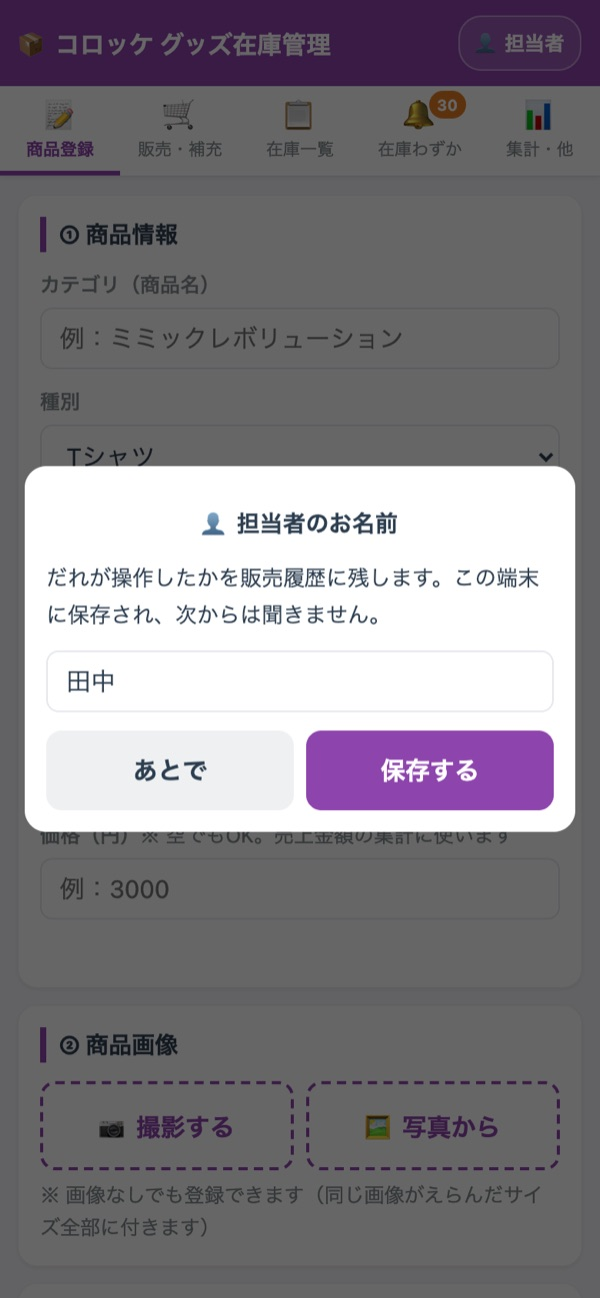
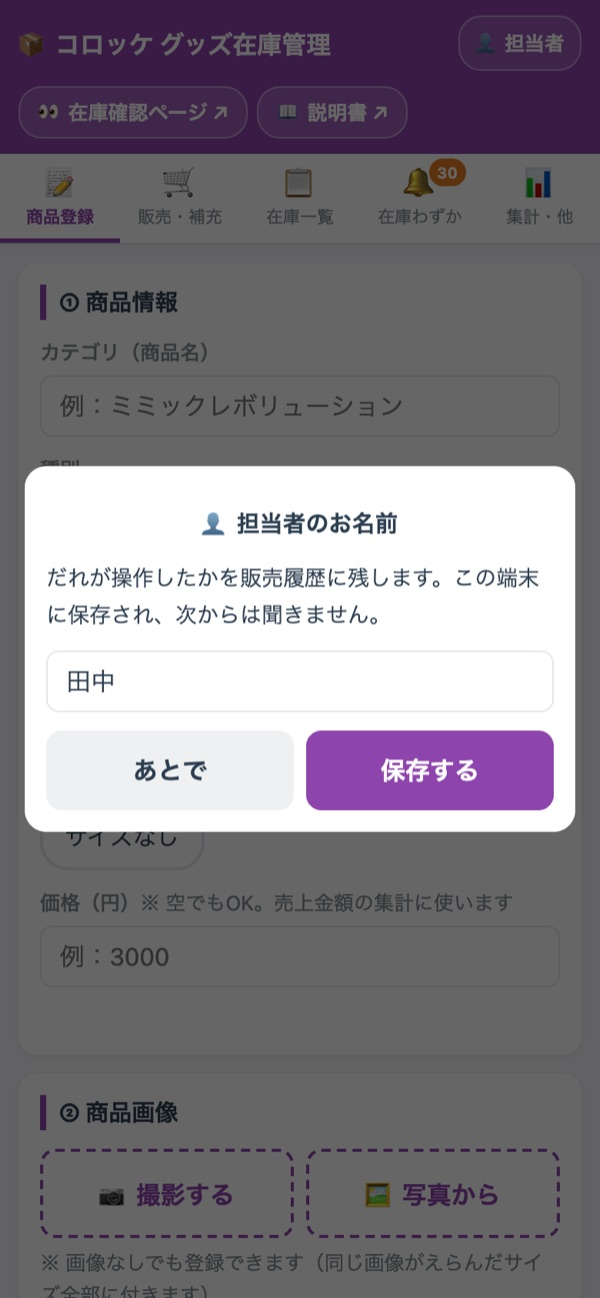
管理画面に在庫確認ページ・説明書へのリンクを追加（説明書の写真も更新）

diff --git a/guide/index.html b/guide/index.html
@@ -669,6 +669,7 @@
         <div><span class="ico">🔔</span><b>在庫わずか</b>残り5枚以下の商品</div>
         <div><span class="ico">📊</span><b>集計・他</b>月ごと・公演ごとの売上</div>
       </div>
+      <p>タブの上にある <b>👀 在庫確認ページ</b> を押すと、お客さまが見る在庫のページが開きます。<b>📖 説明書</b> を押すと、この説明書が開きます。</p>
       <div class="note">タブを押すと、画面の上の色も変わります（販売は赤、在庫一覧はオレンジ、など）。今どの画面にいるかの目印にしてください。</div>
     </div>
   </section>
@@ -692,13 +693,13 @@
     <figure class="phone">
       <div class="screen">
         <img src="img/a06-sale.jpg" width="600" height="1298" alt="1商品ずつ販売を記録する画面">
-        <span class="pin" style="left:20.4%;top:30.1%">1</span>
-        <span class="pin" style="left:69.6%;top:43.5%">2</span>
-        <span class="pin" style="left:87.6%;top:48.5%">3</span>
-        <span class="pin" style="left:50%;top:62.5%">4</span>
-        <span class="pin" style="left:88%;top:71.9%">5</span>
-        <span class="pin" style="left:88%;top:81%">6</span>
-        <span class="pin" style="left:78%;top:87.9%">7</span>
+        <span class="pin" style="left:20.4%;top:35.3%">1</span>
+        <span class="pin" style="left:69.6%;top:48.7%">2</span>
+        <span class="pin" style="left:87.6%;top:53.7%">3</span>
+        <span class="pin" style="left:50%;top:67.7%">4</span>
+        <span class="pin" style="left:88%;top:77.1%">5</span>
+        <span class="pin" style="left:88%;top:86.2%">6</span>
+        <span class="pin" style="left:78%;top:93.1%">7</span>
       </div>
       <figcaption>「販売・補充」の画面</figcaption>
     </figure>
@@ -756,7 +757,7 @@
       <figure class="phone">
         <div class="screen">
           <img src="img/a10-inventory.jpg" width="600" height="1298" alt="在庫一覧の画面。棚卸し、販売チェック表、QRラベル印刷のボタンがある">
-          <span class="pin" style="left:64%;top:38%">1</span>
+          <span class="pin" style="left:64%;top:43.2%">1</span>
         </div>
         <figcaption>① 在庫一覧の「🖨 販売チェック表」</figcaption>
       </figure>
@@ -801,8 +802,8 @@
     </div>
     <figure class="phone">
       <div class="screen"><img src="img/a06-sale.jpg" width="600" height="1298" alt="販売・補充の画面の上にある、販売・補充・移動のボタン">
-        <span class="pin" style="left:50%;top:30.1%;background:#27ae60">▲</span>
-        <span class="pin" style="left:79.6%;top:30.1%;background:#3498db">⇄</span>
+        <span class="pin" style="left:50%;top:35.3%;background:#27ae60">▲</span>
+        <span class="pin" style="left:79.6%;top:35.3%;background:#3498db">⇄</span>
       </div>
       <figcaption>上のボタンで「補充」「移動」に切りかえ</figcaption>
     </figure>
@@ -826,10 +827,10 @@
     <div class="shots">
       <figure class="phone">
         <div class="screen"><img src="img/a03-register.jpg" width="600" height="1298" alt="商品登録の画面。サイズを複数選べる">
-          <span class="pin" style="left:88%;top:26%">1</span>
-          <span class="pin" style="left:88%;top:53%">2</span>
-          <span class="pin" style="left:88%;top:68.5%">3</span>
-          <span class="pin" style="left:50%;top:85%">4</span>
+          <span class="pin" style="left:88%;top:31.2%">1</span>
+          <span class="pin" style="left:88%;top:58.2%">2</span>
+          <span class="pin" style="left:88%;top:73.7%">3</span>
+          <span class="pin" style="left:50%;top:90.2%">4</span>
         </div>
         <figcaption>商品情報とサイズ（S・M・L）を選んだところ</figcaption>
       </figure>
@@ -876,8 +877,8 @@
     <div class="shots">
       <figure class="phone">
         <div class="screen"><img src="img/a11-stocktake.jpg" width="600" height="1298" alt="棚卸しの画面。商品ごとに数えた数を入れる欄がある">
-          <span class="pin" style="left:88%;top:26.4%">1</span>
-          <span class="pin" style="left:58%;top:60.7%">2</span>
+          <span class="pin" style="left:88%;top:31.6%">1</span>
+          <span class="pin" style="left:58%;top:65.9%">2</span>
           <span class="pin" style="left:86.2%;top:91%">3</span>
         </div>
         <figcaption>数えた数を入れる</figcaption>

diff --git a/test/admin.html b/test/admin.html
@@ -49,6 +49,21 @@
     transition: background .2s;
   }
   .app-header .title { flex: 1; min-width: 0; white-space: nowrap; overflow: hidden; text-overflow: ellipsis; }
+  /* 在庫確認ページ・説明書へのリンク（ヘッダーの下の段） */
+  .header-links {
+    display: flex; flex-wrap: wrap; gap: 6px;
+    padding: 0 12px 10px;
+    background: var(--theme);
+    transition: background .2s;
+  }
+  .header-links a {
+    display: inline-flex; align-items: center; gap: 4px;
+    padding: 5px 12px;
+    border: 1px solid rgba(255,255,255,.4); border-radius: 15px;
+    background: rgba(255,255,255,.14); color: #fff;
+    font-size: 13px; font-weight: 700; text-decoration: none;
+  }
+  .header-links a:active { background: rgba(255,255,255,.3); }
   .op-chip {
     flex: 0 0 auto; max-width: 45%;
     padding: 6px 10px;
@@ -415,6 +430,10 @@
   <span class="test-badge" id="testBadge" hidden>テスト版</span>
   <button type="button" class="op-chip" id="opChip">👤 担当者</button>
 </header>
+<nav class="header-links" aria-label="ほかのページ">
+  <a id="linkClient" href="https://tpnxtpn-afk.github.io/croket-goods/" target="_blank" rel="noopener">👀 在庫確認ページ ↗</a>
+  <a id="linkGuide" href="https://tpnxtpn-afk.github.io/croket-goods/guide/" target="_blank" rel="noopener">📖 説明書 ↗</a>
+</nav>
 
 <nav class="tabs" id="tabs">
   <button class="tab" data-tab="product" style="--tab-color:#8e44ad"><span class="ico">📝</span>商品登録</button>
@@ -849,6 +868,7 @@
   const API_URL = 'https://script.google.com/macros/s/AKfycbxj_wjVq-eC5T_MikXdrMD259UrUAY77VLipvt18RwFByywBXTmV4c5Id03cKw8DeI/exec';
   const ENV = 'test';
   const CLIENT_URL = 'https://tpnxtpn-afk.github.io/croket-goods/test/';
+  const GUIDE_URL = 'https://tpnxtpn-afk.github.io/croket-goods/guide/';
 
   const STORE = 'korokke' + (ENV ? '.' + ENV : '');
   const KEY_STORE = STORE + '.adminKey';
@@ -2421,6 +2441,8 @@
     fillSelect($('bLocation'), state.config.owners);
     fillSelect($('stLocation'), state.config.owners);
     $('sTo').value = state.config.owners[1] || state.config.owners[0];
+    $('linkClient').href = CLIENT_URL;
+    $('linkGuide').href = GUIDE_URL;
     $('testBadge').hidden = state.config.env !== 'test';
     $('btnResetTest').hidden = state.config.env !== 'test';
     if (state.config.lastSourceUrl) $('srcUrl').value = state.config.lastSourceUrl;

diff --git a/admin.html b/admin.html
@@ -49,6 +49,21 @@
     transition: background .2s;
   }
   .app-header .title { flex: 1; min-width: 0; white-space: nowrap; overflow: hidden; text-overflow: ellipsis; }
+  /* 在庫確認ページ・説明書へのリンク（ヘッダーの下の段） */
+  .header-links {
+    display: flex; flex-wrap: wrap; gap: 6px;
+    padding: 0 12px 10px;
+    background: var(--theme);
+    transition: background .2s;
+  }
+  .header-links a {
+    display: inline-flex; align-items: center; gap: 4px;
+    padding: 5px 12px;
+    border: 1px solid rgba(255,255,255,.4); border-radius: 15px;
+    background: rgba(255,255,255,.14); color: #fff;
+    font-size: 13px; font-weight: 700; text-decoration: none;
+  }
+  .header-links a:active { background: rgba(255,255,255,.3); }
   .op-chip {
     flex: 0 0 auto; max-width: 45%;
     padding: 6px 10px;
@@ -415,6 +430,10 @@
   <span class="test-badge" id="testBadge" hidden>テスト版</span>
   <button type="button" class="op-chip" id="opChip">👤 担当者</button>
 </header>
+<nav class="header-links" aria-label="ほかのページ">
+  <a id="linkClient" href="https://tpnxtpn-afk.github.io/croket-goods/" target="_blank" rel="noopener">👀 在庫確認ページ ↗</a>
+  <a id="linkGuide" href="https://tpnxtpn-afk.github.io/croket-goods/guide/" target="_blank" rel="noopener">📖 説明書 ↗</a>
+</nav>
 
 <nav class="tabs" id="tabs">
   <button class="tab" data-tab="product" style="--tab-color:#8e44ad"><span class="ico">📝</span>商品登録</button>
@@ -849,6 +868,7 @@
   const API_URL = 'https://script.google.com/macros/s/AKfycbzAASqPnaTyRfd7YgLiFCg685L4u_Sy7b6q1zudeJWNuC2RN6mYQy2gygsMDdG6mJE/exec';
   const ENV = '';
   const CLIENT_URL = 'https://tpnxtpn-afk.github.io/croket-goods/';
+  const GUIDE_URL = 'https://tpnxtpn-afk.github.io/croket-goods/guide/';
 
   const STORE = 'korokke' + (ENV ? '.' + ENV : '');
   const KEY_STORE = STORE + '.adminKey';
@@ -2421,6 +2441,8 @@
     fillSelect($('bLocation'), state.config.owners);
     fillSelect($('stLocation'), state.config.owners);
     $('sTo').value = state.config.owners[1] || state.config.owners[0];
+    $('linkClient').href = CLIENT_URL;
+    $('linkGuide').href = GUIDE_URL;
     $('testBadge').hidden = state.config.env !== 'test';
     $('btnResetTest').hidden = state.config.env !== 'test';
     if (state.config.lastSourceUrl) $('srcUrl').value = state.config.lastSourceUrl;
